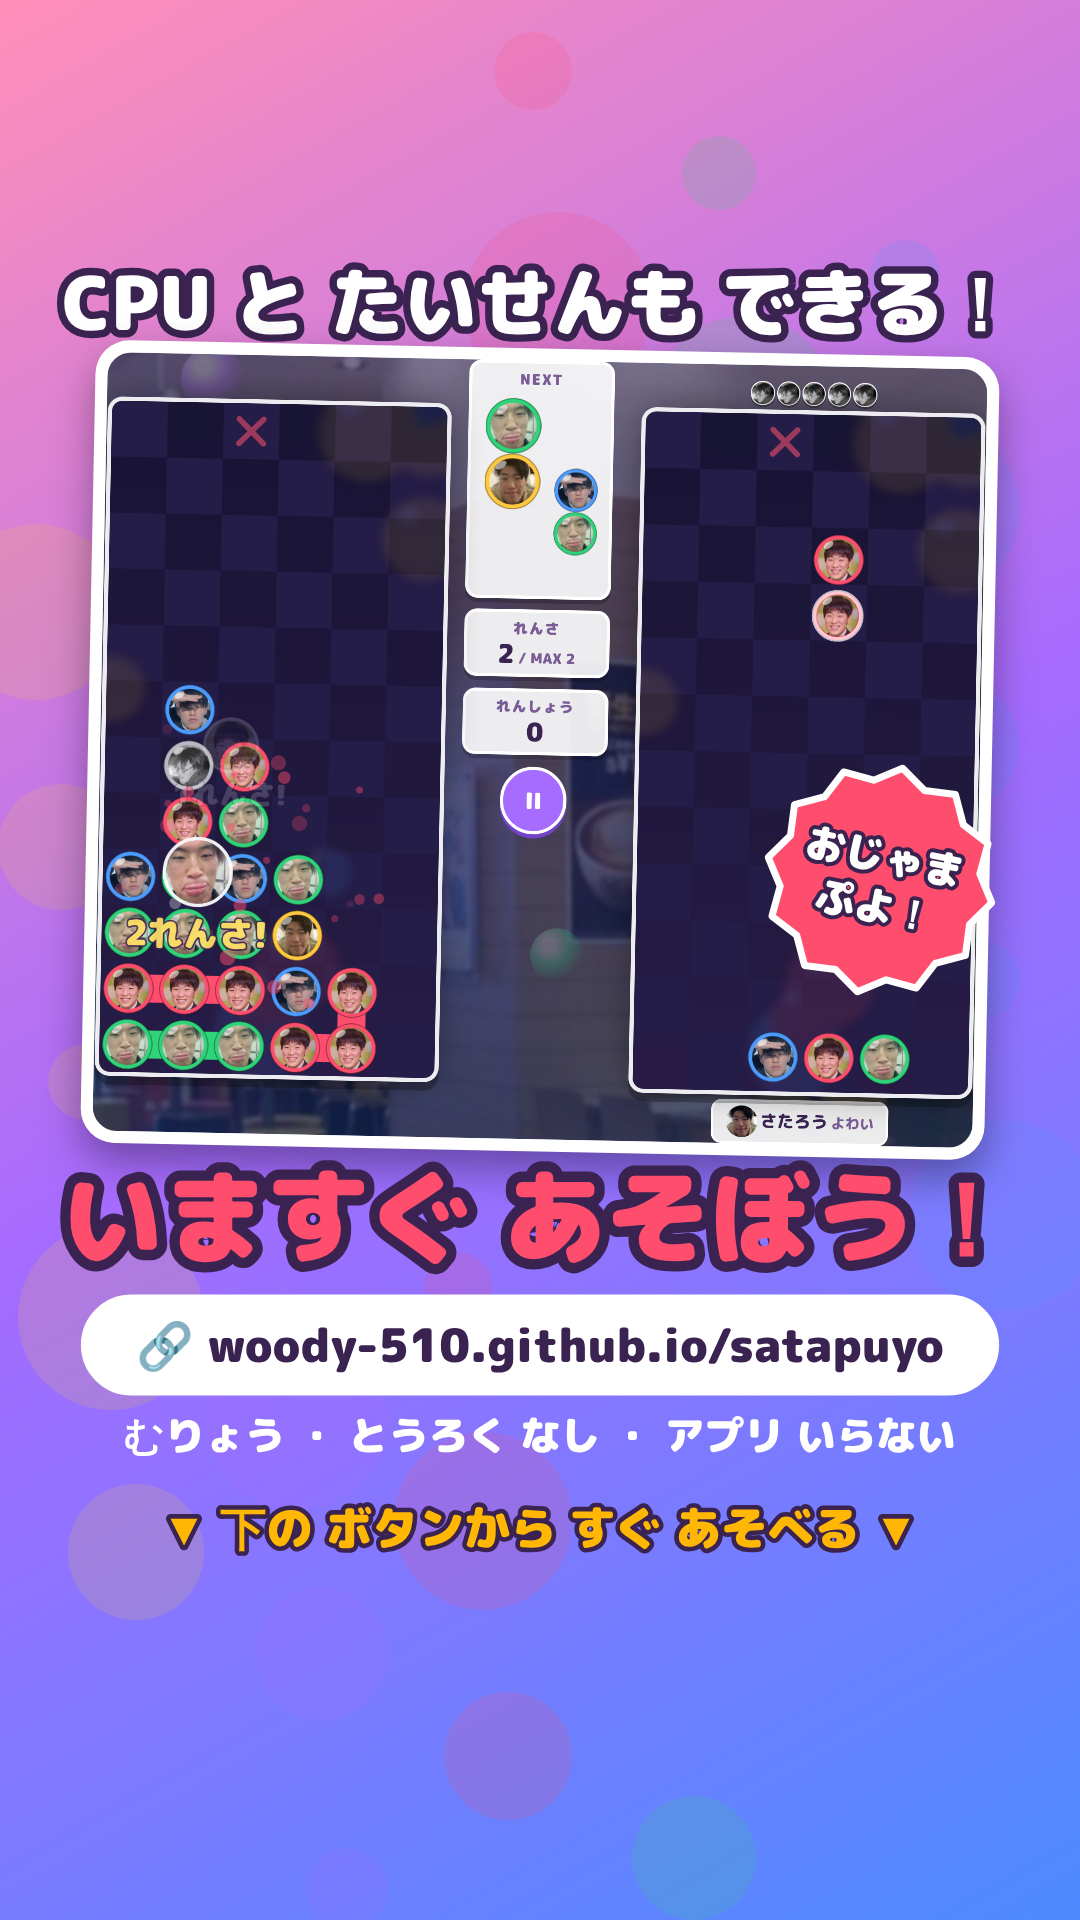
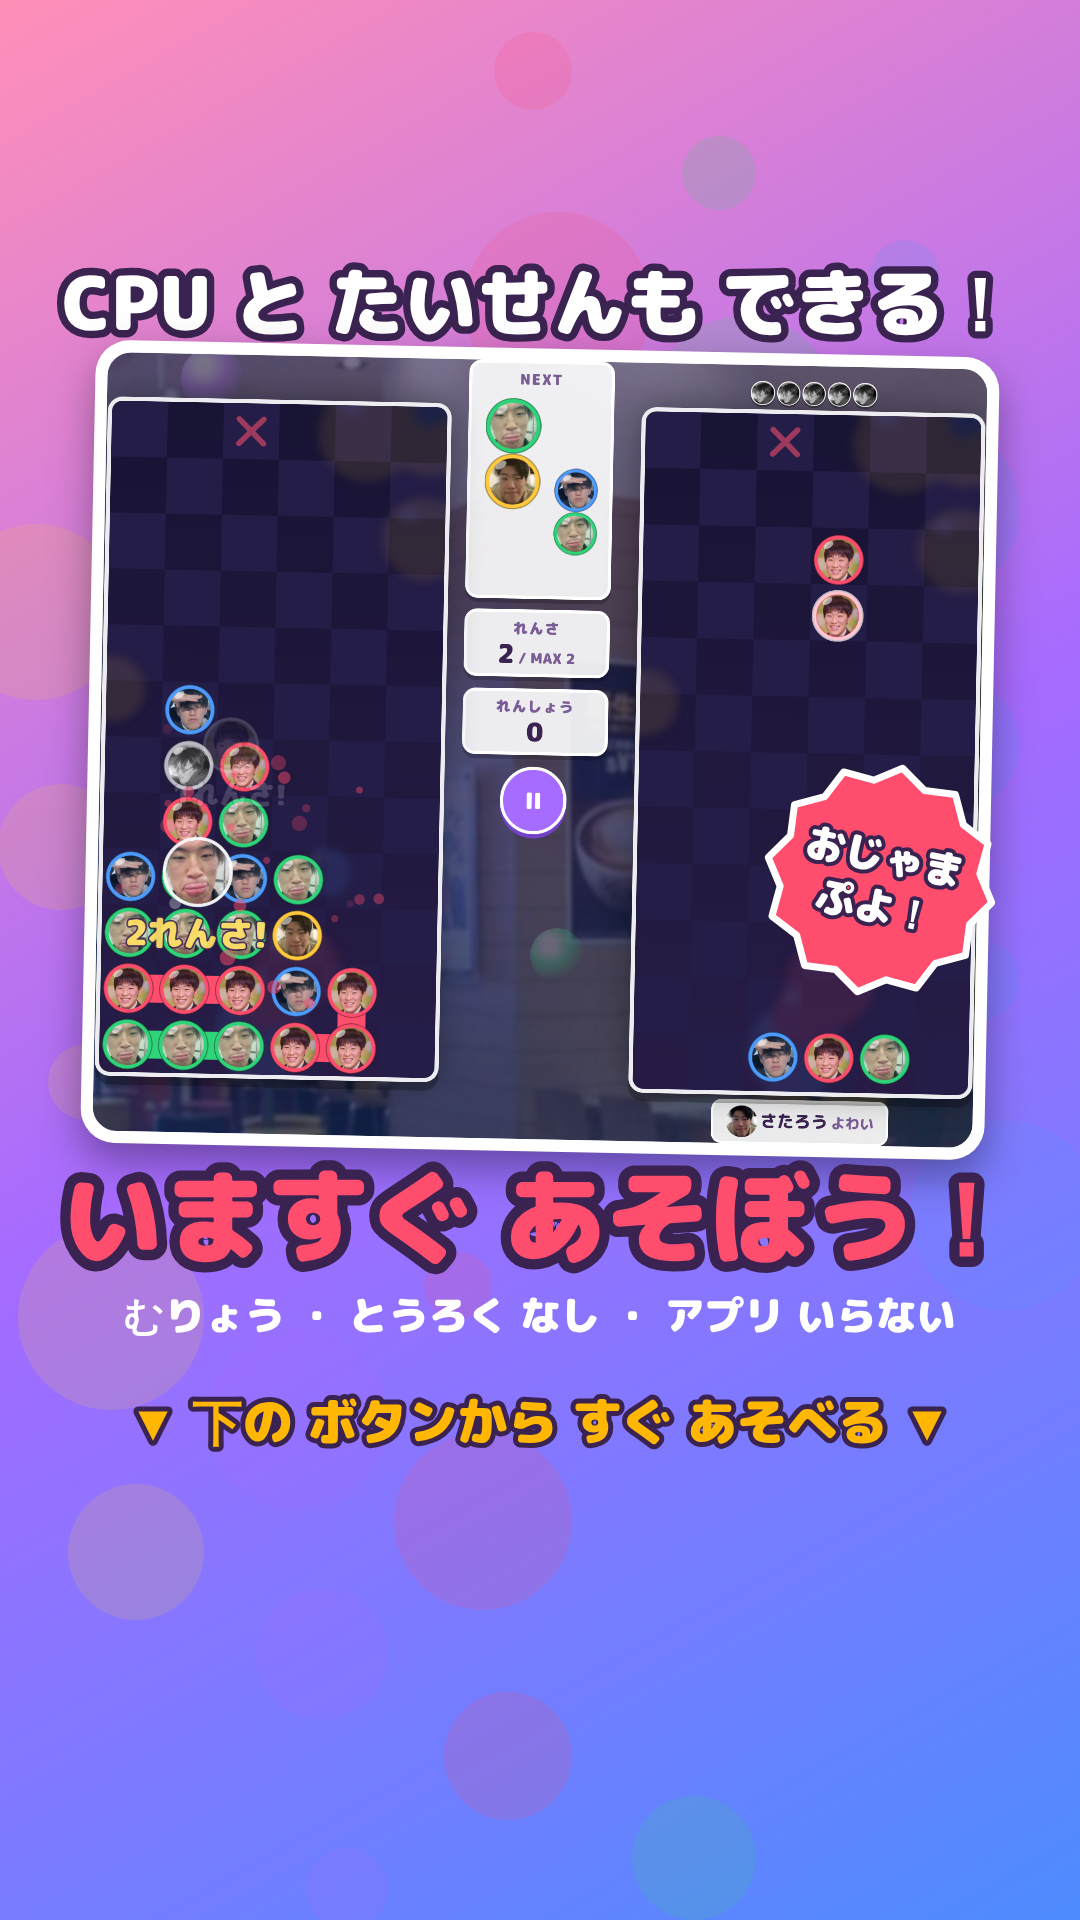
ストーリー広告の3まいめから URL の文字を消して、リンクスタンプ用にあける
Claude-Session: https://claude.ai/code/session_01DBz8UX6wqfkzSfTtDdqhoj

Changed region(s): [[0.0611, 0.6562, 0.9472, 0.8125]]

diff --git a/tools/story_ads_draw.js b/tools/story_ads_draw.js
@@ -8,7 +8,6 @@ window.drawStoryAds = async function () {
   const logo = await load(CFG.images.logo);
   const field = await load('ads/src/cap_field.png');
   const versus = await load('ads/src/cap_versus.png');
-  const URL_TEXT = CFG.share.url.replace(/^https?:\/\//, '').replace(/\/$/, '');
 
   const W = 1080, H = 1920;
   const FONT = "'M PLUS Rounded 1c', 'Hiragino Maru Gothic ProN', sans-serif";
@@ -228,13 +227,12 @@ window.drawStoryAds = async function () {
     photo(g, versus, W / 2, 750, 880, 0.02);
     burst(g, ['おじゃま', 'ぷよ！'], 880, 880, 100, PINK, 0.2);
     title(g, 'いますぐ あそぼう！', W / 2, 1255, 104, PINK);
-    pill(g, '🔗 ' + URL_TEXT, W / 2, 1345, 96, '#fff', INK, W - 120);
-    text(g, 'むりょう ・ とうろく なし ・ アプリ いらない', W / 2, 1450, 40, '#fff', 'center', W - 140, 900);
+    text(g, 'むりょう ・ とうろく なし ・ アプリ いらない', W / 2, 1330, 40, '#fff', 'center', W - 140, 900);
     if (adVersion) {
-      title(g, '▼ 下の ボタンから すぐ あそべる ▼', W / 2, 1545, 46, GOLD, W - 120);
+      title(g, '▼ 下の ボタンから すぐ あそべる ▼', W / 2, 1440, 50, GOLD, W - 120);
     } else {
-      // この下に インスタの「リンク」スタンプを はる（なにも かかない）
-      title(g, '▼ リンクから すぐ あそべる ▼', W / 2, 1530, 50, GOLD, W - 120);
+      // この下（だいたい y=1450〜1620）は あけておく。インスタの「リンク」スタンプを あとで はる
+      title(g, '▼ リンクから すぐ あそべる ▼', W / 2, 1410, 50, GOLD, W - 120);
     }
     return c.toDataURL('image/png');
   }
